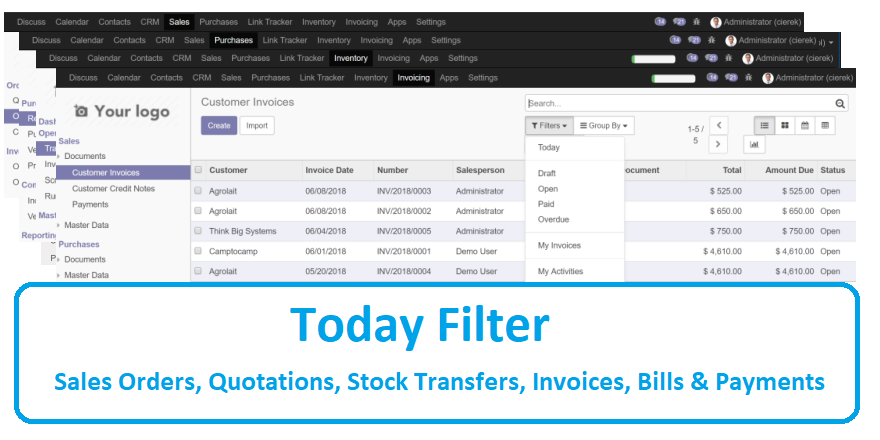
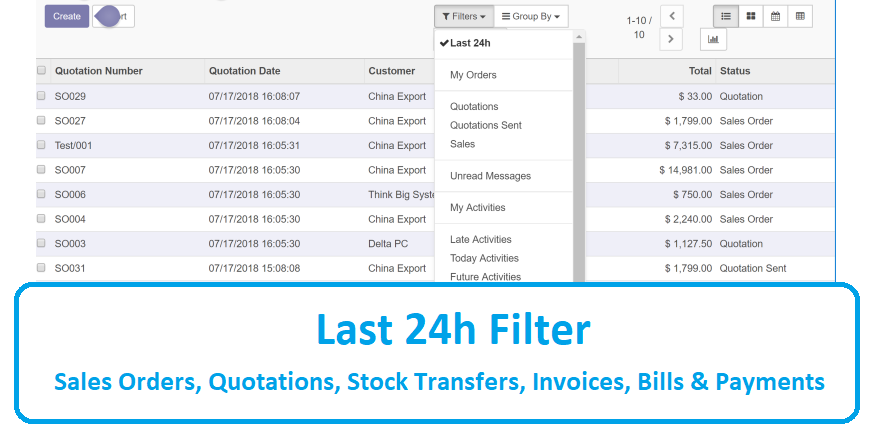
Add files via upload
fixed filters, icon and screenshots added

Changed region(s): [[0.0, 0.0, 0.9818, 0.65], [0.3375, 0.6795, 0.675, 0.7977]]

diff --git a/24h_filter/static/description/index.html b/24h_filter/static/description/index.html
@@ -15,6 +15,7 @@ This module adds a new filter to 9 different views in Sales, Purchases, Inventor
   <br>- Vendor Bills (Invoicing/Documents/Vendor Bills)
 </p>
     </div>
+    <img src="1.png"/>
 </section>
 
 

diff --git a/24h_filter/__openerp__.py b/24h_filter/__openerp__.py
@@ -1,6 +1,6 @@
 # -*- coding: utf-8 -*-
 {
-    'name' : "Today filter",
+    'name' : "24h filter",
     'version' : "1.0",
     'author' : "Piotr Cierkosz",
     'images': ['images/thumbnail.png'],
